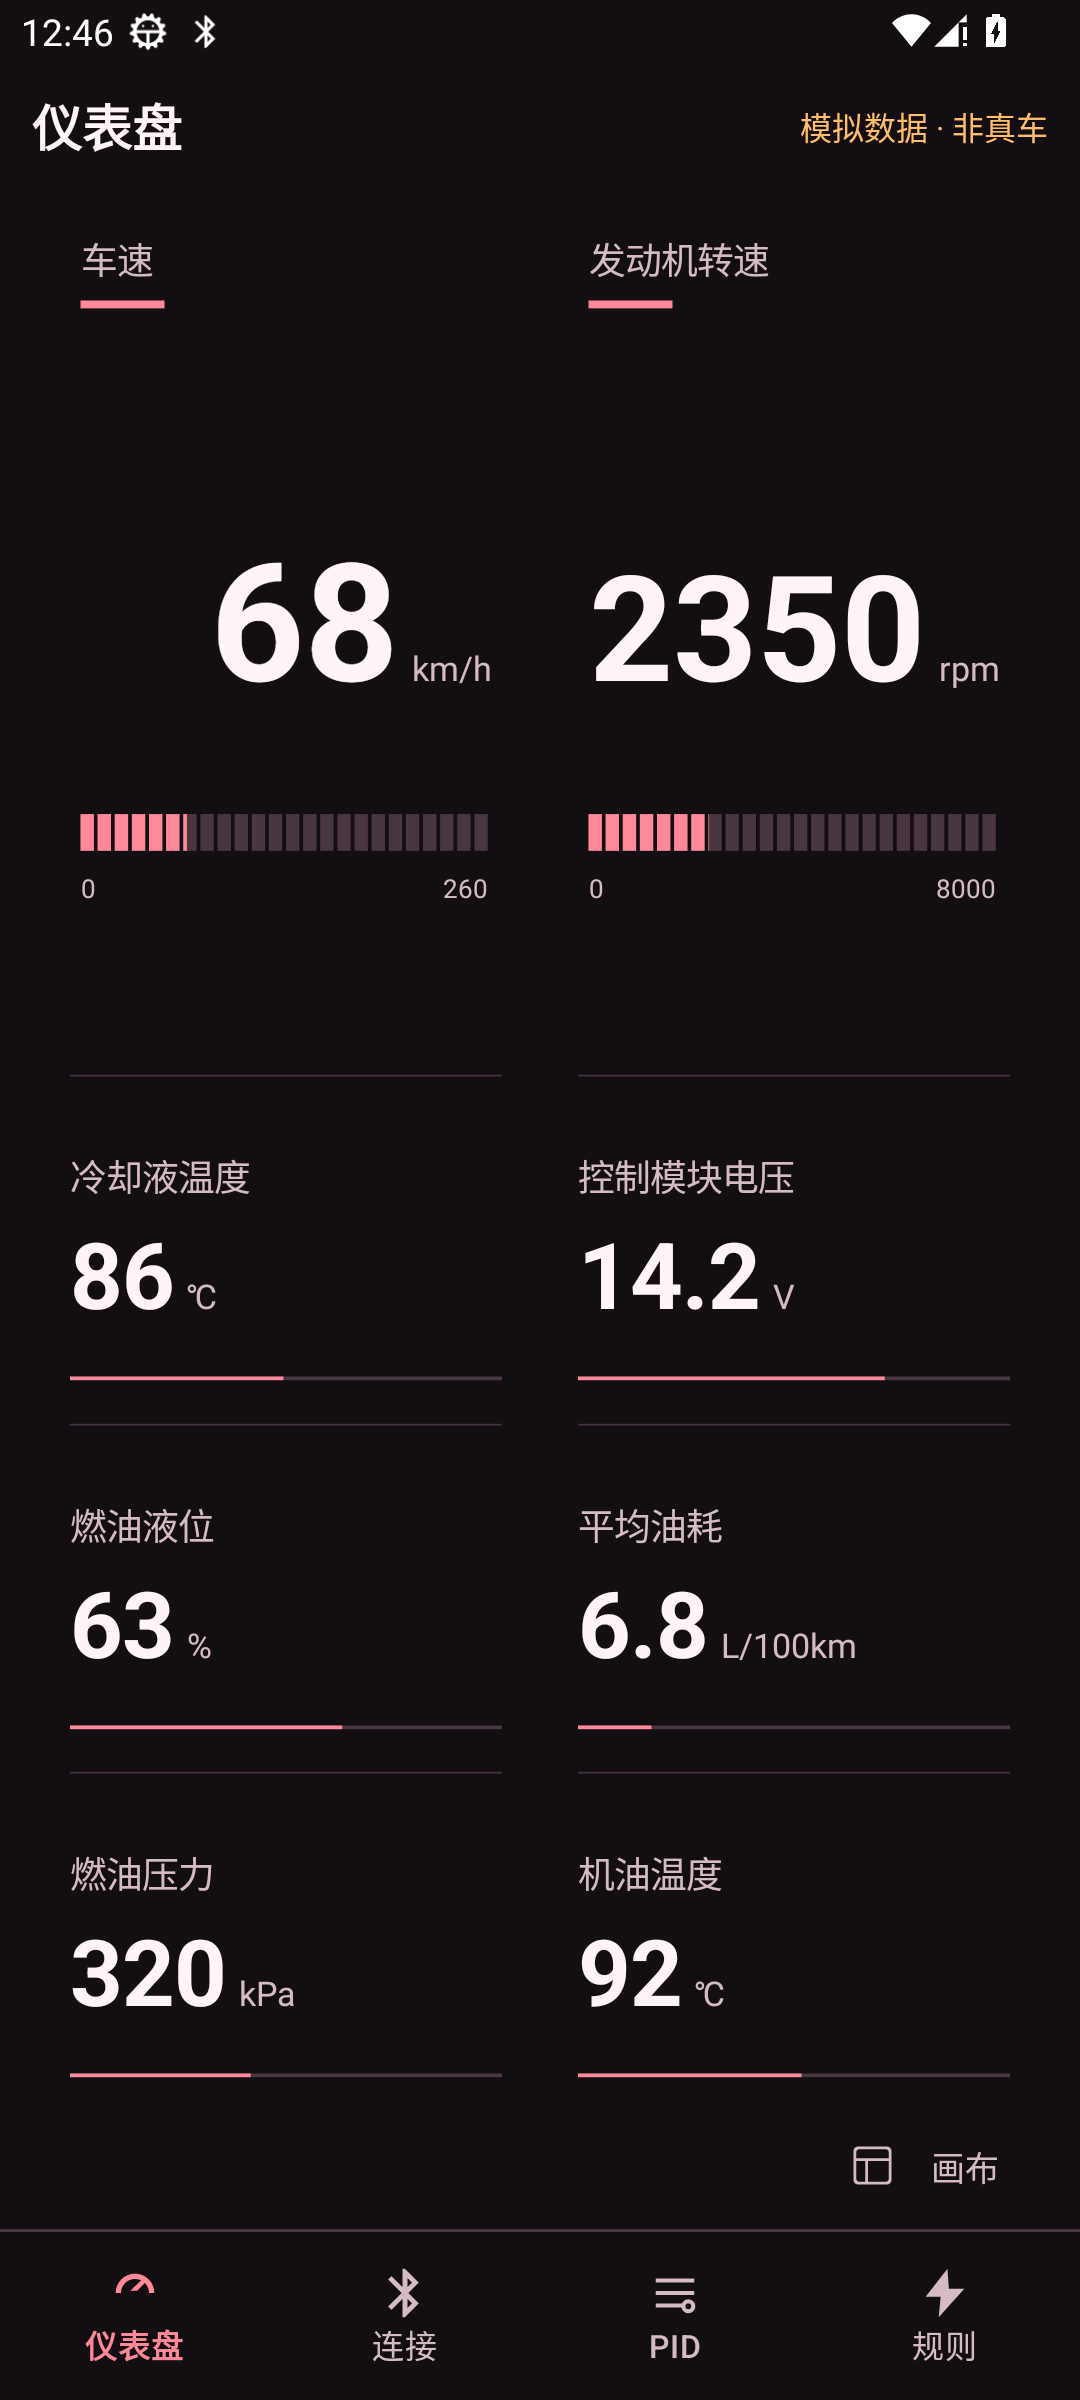
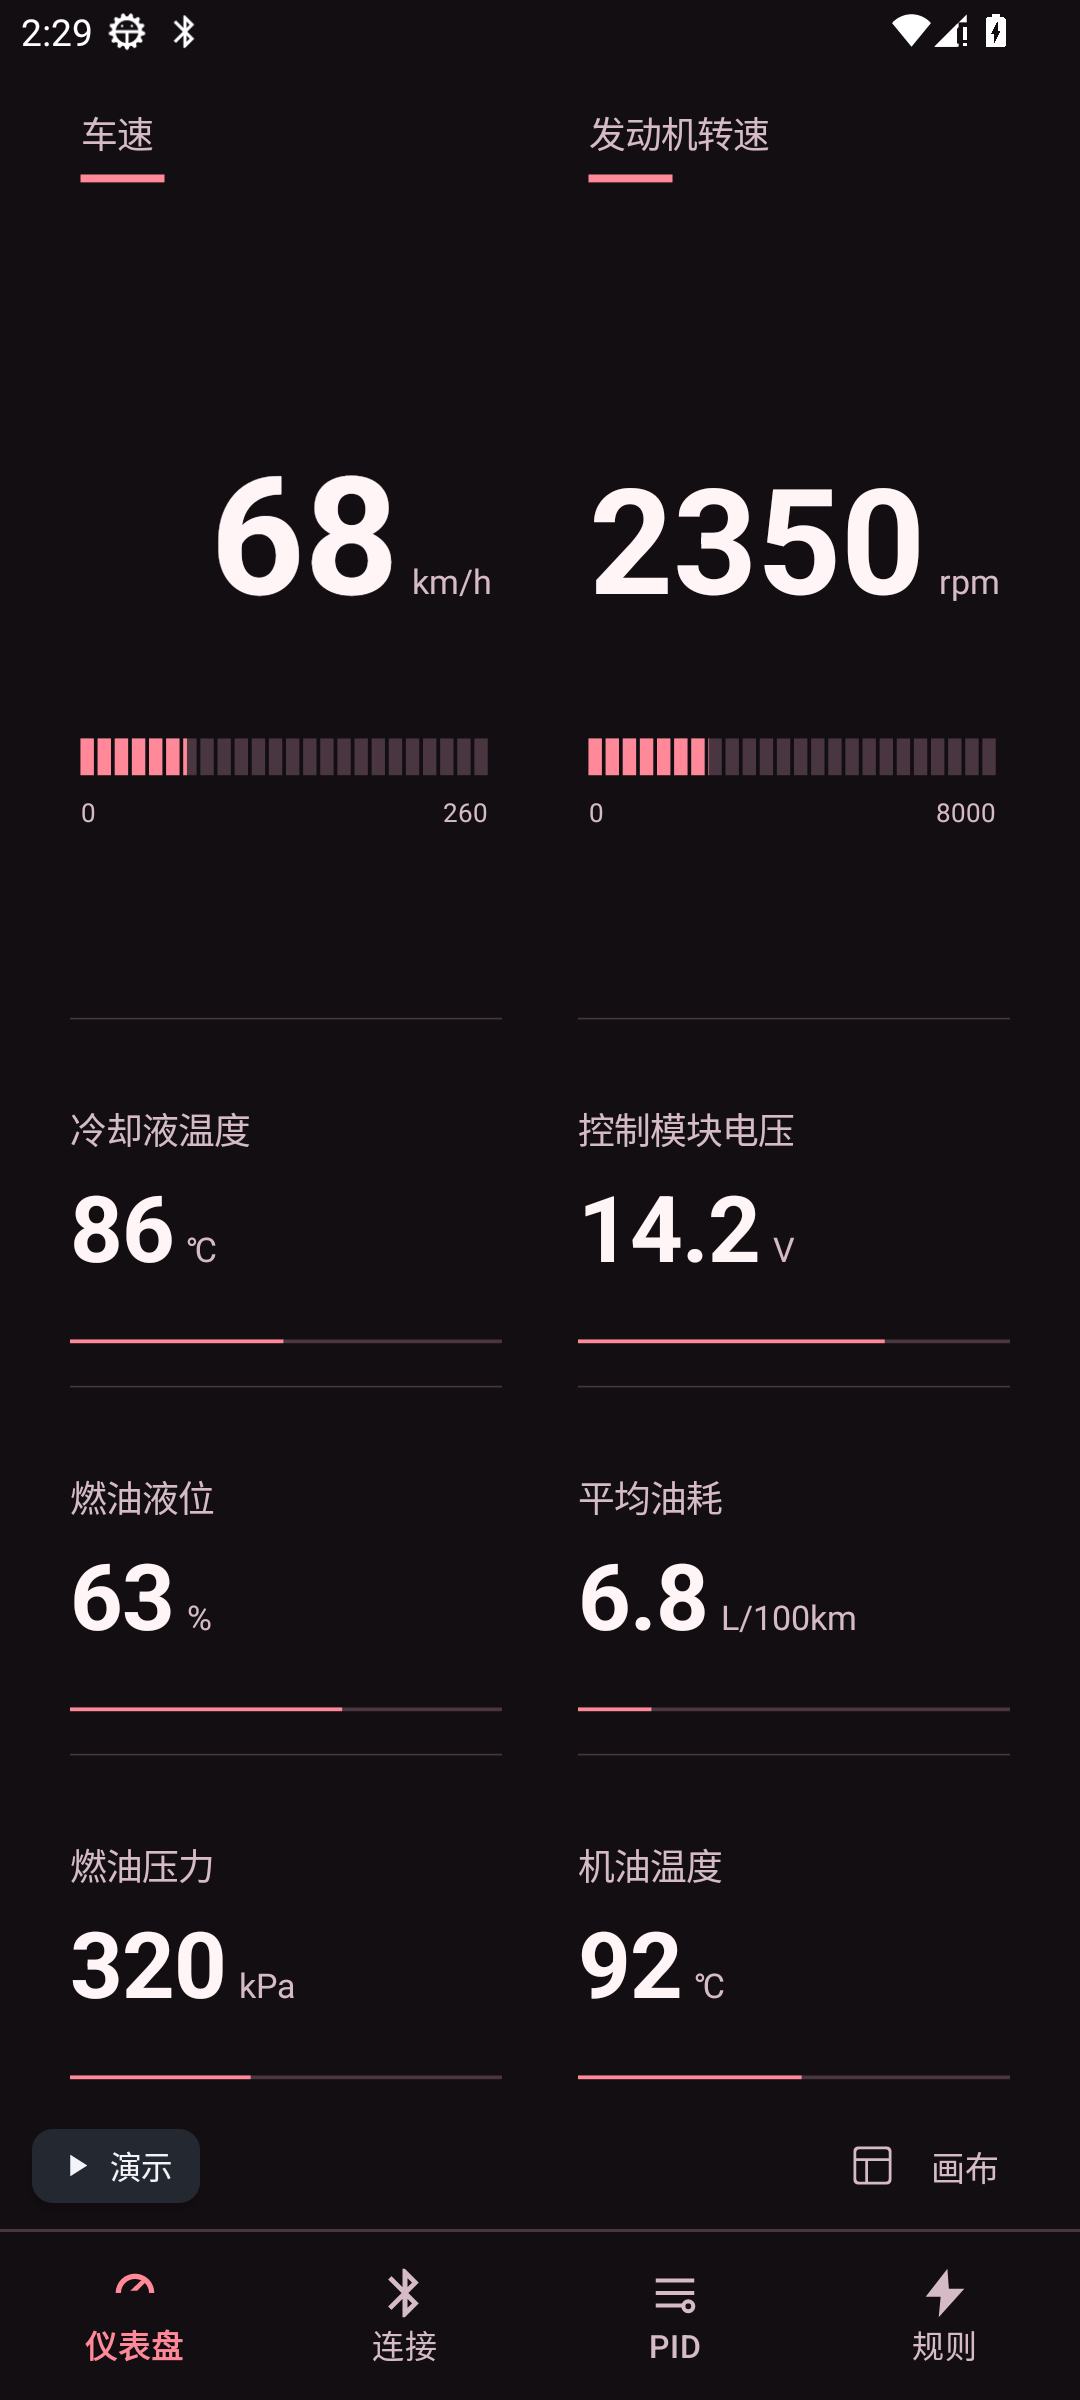
docs: publish 1.21.27 and link the independent theme repository

diff --git a/README.md b/README.md
@@ -2,20 +2,20 @@
 
 <p align="center"><strong>把车辆数据，变成清楚好读的仪表与提醒。</strong><br>Android 7.0+ · 手机与平板 · 当前提供 Debug 测试版</p>
 
-<p align="center"><a href="https://github.com/misakashiny/iCarOBD/releases/download/v1.21.26/ICarOBD_1.21.26.apk"><strong>下载 1.21.26 APK</strong></a> · <a href="https://github.com/misakashiny/iCarOBD/releases/latest">最新发布</a> · <a href="INSTALL.md">安装说明</a> · <a href="CHANGELOG.md">更新记录</a></p>
+<p align="center"><a href="https://github.com/misakashiny/iCarOBD/releases/download/v1.21.27/ICarOBD_1.21.27.apk"><strong>下载 1.21.27 APK</strong></a> · <a href="https://github.com/misakashiny/iCarOBD/releases/latest">最新发布</a> · <a href="INSTALL.md">安装说明</a> · <a href="CHANGELOG.md">更新记录</a></p>
 
 ---
 
 ## 下载与安装
 
 <!-- current-release:start -->
-**最新版本：1.21.26（118）** · 2026-11-08 · 8.01 MB
+**最新版本：1.21.27（119）** · 2026-11-08 · 7.83 MB
 
 - 下载文件应以 **.apk** 结尾，直接安装，无需解压。
 - 已安装 ICarOBD 时，使用同签名版本直接覆盖安装，保留现有配置与数据。
 - App 内可从连接页进入“应用更新”，检查并下载新版。
 
-[直接下载 APK](https://github.com/misakashiny/iCarOBD/releases/download/v1.21.26/ICarOBD_1.21.26.apk) · [本版本说明](https://github.com/misakashiny/iCarOBD/releases/tag/v1.21.26) · [版本对应记录](releases/v1.21.26.json)
+[直接下载 APK](https://github.com/misakashiny/iCarOBD/releases/download/v1.21.27/ICarOBD_1.21.27.apk) · [本版本说明](https://github.com/misakashiny/iCarOBD/releases/tag/v1.21.27) · [版本对应记录](releases/v1.21.27.json)
 <!-- current-release:end -->
 
 ## 界面预览
@@ -41,12 +41,12 @@
 
 实际可读取的数据取决于车辆、适配器和对应 PID 定义。功能模拟与界面测试不代表已完成实车适配。
 
-## 1.21.26 更新重点
+## 1.21.27 更新重点
 
-- 仪表盘长按 **1 秒**打开默认仪表设置。
-- 音效库、效果模拟、提醒设置、更多，保持轻薄单行。
-- 数据目录改为私有 GitHub 在线源，完整目录不写入手机缓存。
-- 个人 PID 支持比对与同步；冲突、删除由你选择，自动同步默认关闭。
+- 仪表盘顶部更简洁，取消标题与蓝牙连接状态行。
+- 演示和效果模拟使用可点按的小提示；大字体下仍完整显示。
+- 取消应用选项中的双指导航手势，保留原有配置和其他操作。
+- 主题独立放在 ICarUI-Theme，编辑器与手机读取同一份包；同款主题先选样式，再选画布比例。
 
 ## 仓库分工
 
@@ -54,6 +54,8 @@
 | :--- | :--- |
 | **ICarOBD · 本仓库** | APK、更新说明、发行校验与展示资料 |
 | [ICarOBD-Private](https://github.com/misakashiny/ICarOBD-Private) | 安卓 App 的源码、资源与测试，需要授权访问 |
+| [ICarUI-Theme](https://github.com/misakashiny/ICarUI-Theme) | 公开主题原件、预览、在线下载目录 |
+| [ICarUI-Private](https://github.com/misakashiny/ICarUI-Private) | 配套主题编辑器源码，需要授权访问 |
 | [ICarOBD-Data-Private](https://github.com/misakashiny/ICarOBD-Data-Private) | 数据目录、审核资料与个人 PID，需要授权访问 |
 
 本仓库的主分支已整理为发行入口。旧公开源码保留在 Git 历史和历史标签中；它们不代表最新 APK 的源码。
@@ -66,14 +68,14 @@
 
 应用更新读取 [最新 update.json](https://github.com/misakashiny/iCarOBD/releases/latest/download/update.json)，核对版本、文件大小、SHA-256 和安装签名。检查与下载由用户发起，安装由 Android 系统确认。
 
-1.21.26 已完成 2,283 项 JVM 测试、861 项原生检查与真实 GitHub 访问检查。本版本未进行实体手机、实体平板、TalkBack、Release 构建或实车验收。
+1.21.27 已完成 2,287 项 JVM 测试、988 项原生检查与真实 GitHub 访问检查。本版本未进行实体手机、实体平板、TalkBack、Release 构建或实车验收。
 
 <details>
-<summary>1.21.26 文件完整性</summary>
+<summary>1.21.27 文件完整性</summary>
 
-文件：ICarOBD_1.21.26.apk  
-大小：8,008,340 字节  
[1 lines of base64/hex data omitted]
+文件：ICarOBD_1.21.27.apk  
+大小：7,829,135 字节  
[1 lines of base64/hex data omitted]
 
 </details>
 

diff --git a/CHANGELOG.md b/CHANGELOG.md
@@ -1,5 +1,16 @@
 # 更新记录
 
+## 1.21.27 · 2026-11-08
+
+1. 取消应用选项中的双指导航手势。
+2. 仪表盘顶部标题与蓝牙连接状态行移除。
+3. 仪表演示和规则效果模拟改用简洁小提示，可点按调整或退出；大字体下文字完整显示。
+4. 默认主题源迁至 ICarUI-Theme，保留其他主题源与已有配置。
+5. 同款主题的不同画布比例合并展示，可按手机和平板尺寸选择并下载；与 ICarUI 使用同一份主题包。
+
+[下载 APK](https://github.com/misakashiny/iCarOBD/releases/download/v1.21.27/ICarOBD_1.21.27.apk) · [源码对应记录](releases/v1.21.27.json)
+
+
 [返回首页](README.md) · [全部发布与历史安装包](https://github.com/misakashiny/iCarOBD/releases)
 
 近期版本按发布记录整理；下载文件和版本号以各发布页为准。
